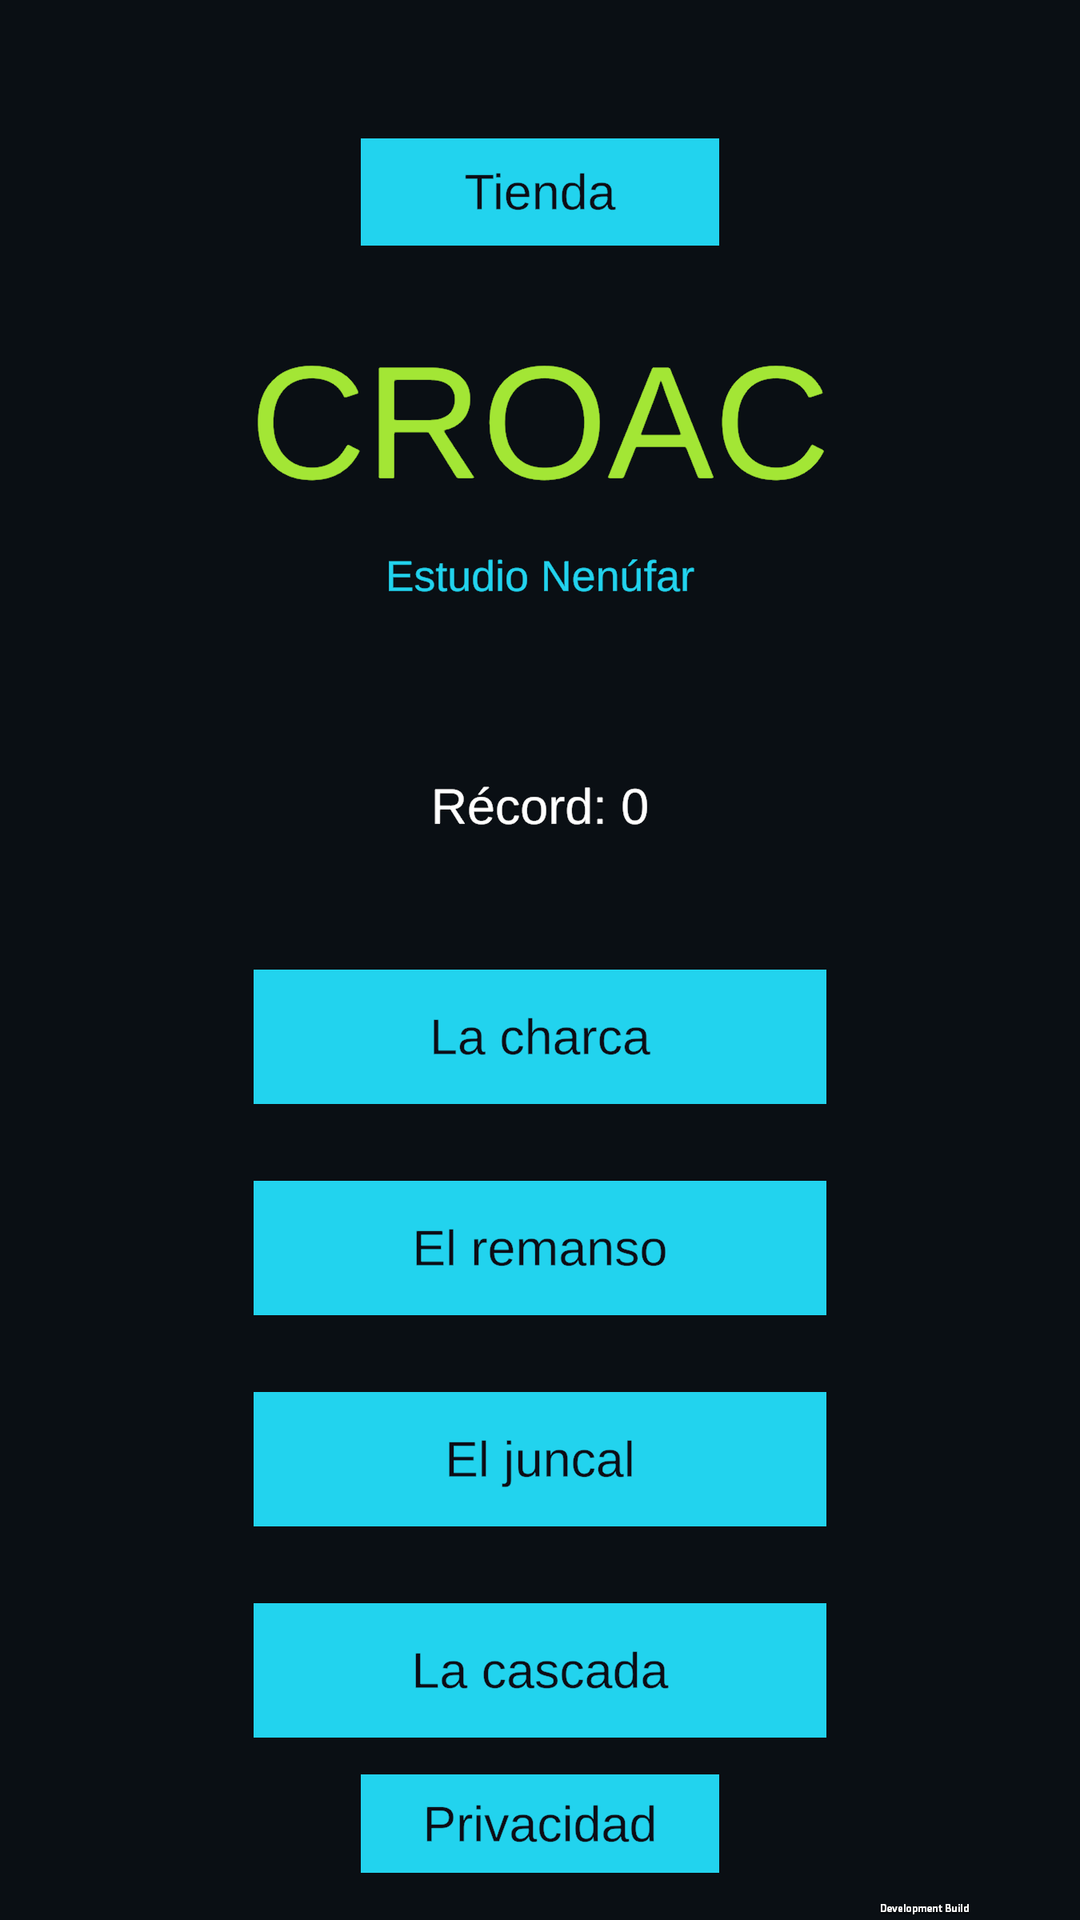
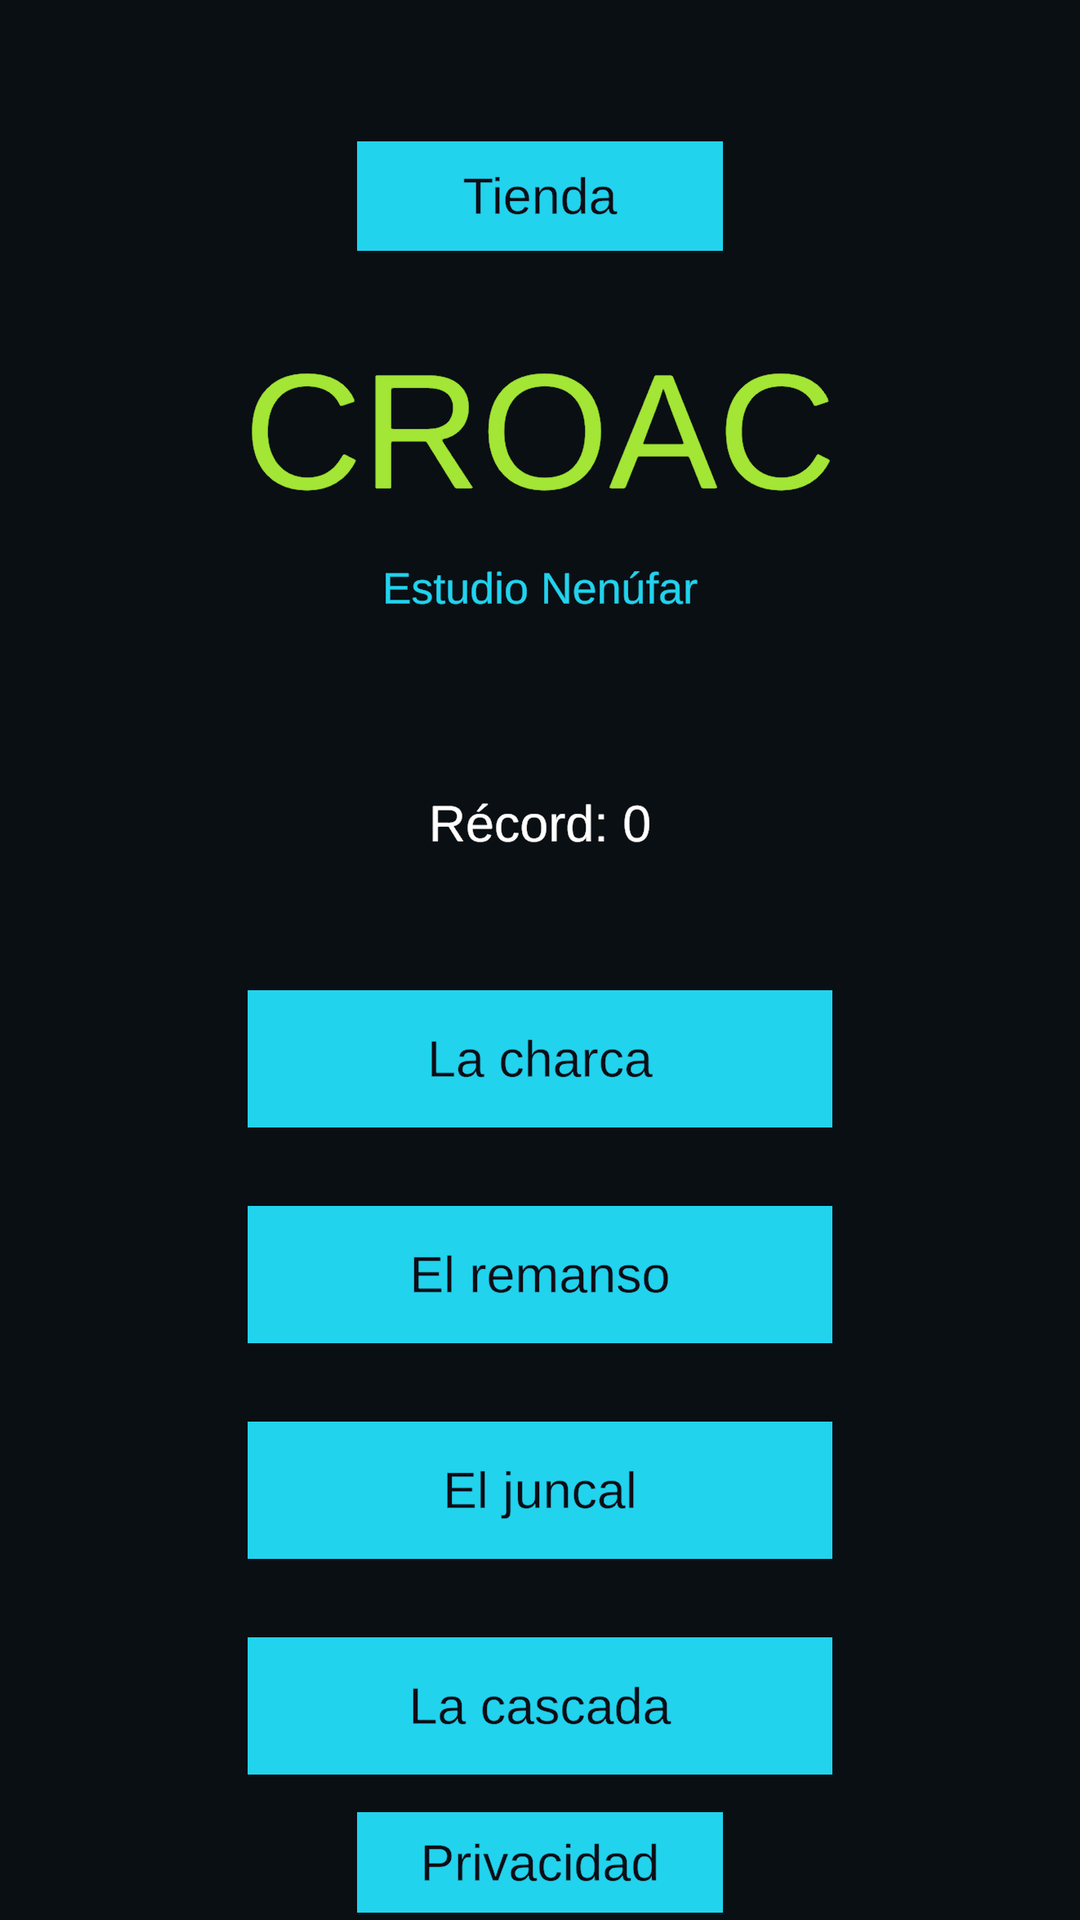
m05-finished: icono de la ficha en cuadrado completo (especificación de Google Play) y captura del menú sin la marca de desarrollo

diff --git a/Store/README.md b/Store/README.md
@@ -6,12 +6,12 @@ Lo que pide Google Play Console (y su equivalente de App Store Connect) para pub
 |---|---|---|
 | `ficha-google-play.md` | Nombre, descripción breve y completa | 30, 80 y 4.000 caracteres |
 | `ficha-app-store.md` | Nombre, subtítulo, palabras clave, texto promocional y descripción | 30, 30, 100 bytes, 170 y 4.000 |
-| `icono-512.png` | Icono de la ficha | 512 × 512, PNG de 32 bits con alfa, 1 MB como máximo |
+| `icono-512.png` | Icono de la ficha | 512 × 512, PNG de 32 bits, 1 MB como máximo; cuadrado completo, sin esquinas redondeadas, sombra ni transparencia (Google Play aplica la máscara y la sombra) |
 | `grafico-1024x500.png` | Gráfico de funciones | 1024 × 500, PNG de 24 bits sin alfa |
 | `capturas/*.png` | Capturas de teléfono | 1080 × 1920 (9:16), PNG de 24 bits sin alfa; los juegos necesitan tres 9:16 de juego para optar a recomendaciones |
 | `data-safety.md` | Respuestas de Data safety | Lo que recogen los SDK de LevelPlay y Unity IAP |
 | `clasificacion-edad.md` | Respuestas del cuestionario de IARC y de Apple | Clasificación esperada |
 
-Las capturas salen del emulador de Android (AVD Medium_Phone, build de desarrollo: la del menú lleva la marca «Development Build» abajo a la derecha) y del Device Simulator de Unity (iOS Notch Device). Las imágenes las genera `ficha_tienda.py` del repositorio del curso. Para el App Store, las capturas tienen que tener los tamaños exactos de cada pantalla de iPhone: no son estas.
+Las capturas salen del emulador de Android (AVD Medium_Phone, build de desarrollo, porque la de release no descarga por HTTP del servidor local: a la del menú se le recortan los 50 píxeles de abajo, donde esa build pinta «Development Build») y del Device Simulator de Unity (iOS Notch Device). Las imágenes las genera `ficha_tienda.py` del repositorio del curso. Para el App Store, las capturas tienen que tener los tamaños exactos de cada pantalla de iPhone: no son estas.
 
-Fuentes: [Google Play: recursos gráficos de la ficha](https://support.google.com/googleplay/android-developer/answer/9866151), [Google Play: buenas prácticas de la ficha](https://support.google.com/googleplay/android-developer/answer/13393723), [App Store Connect: información de la versión](https://developer.apple.com/help/app-store-connect/reference/app-information/platform-version-information).
+Fuentes: [Google Play: especificaciones del icono](https://developer.android.com/distribute/google-play/resources/icon-design-specifications), [Google Play: recursos gráficos de la ficha](https://support.google.com/googleplay/android-developer/answer/9866151), [Google Play: buenas prácticas de la ficha](https://support.google.com/googleplay/android-developer/answer/13393723), [App Store Connect: información de la app](https://developer.apple.com/help/app-store-connect/reference/app-information/app-information), [App Store Connect: información de la versión](https://developer.apple.com/help/app-store-connect/reference/app-information/platform-version-information).
